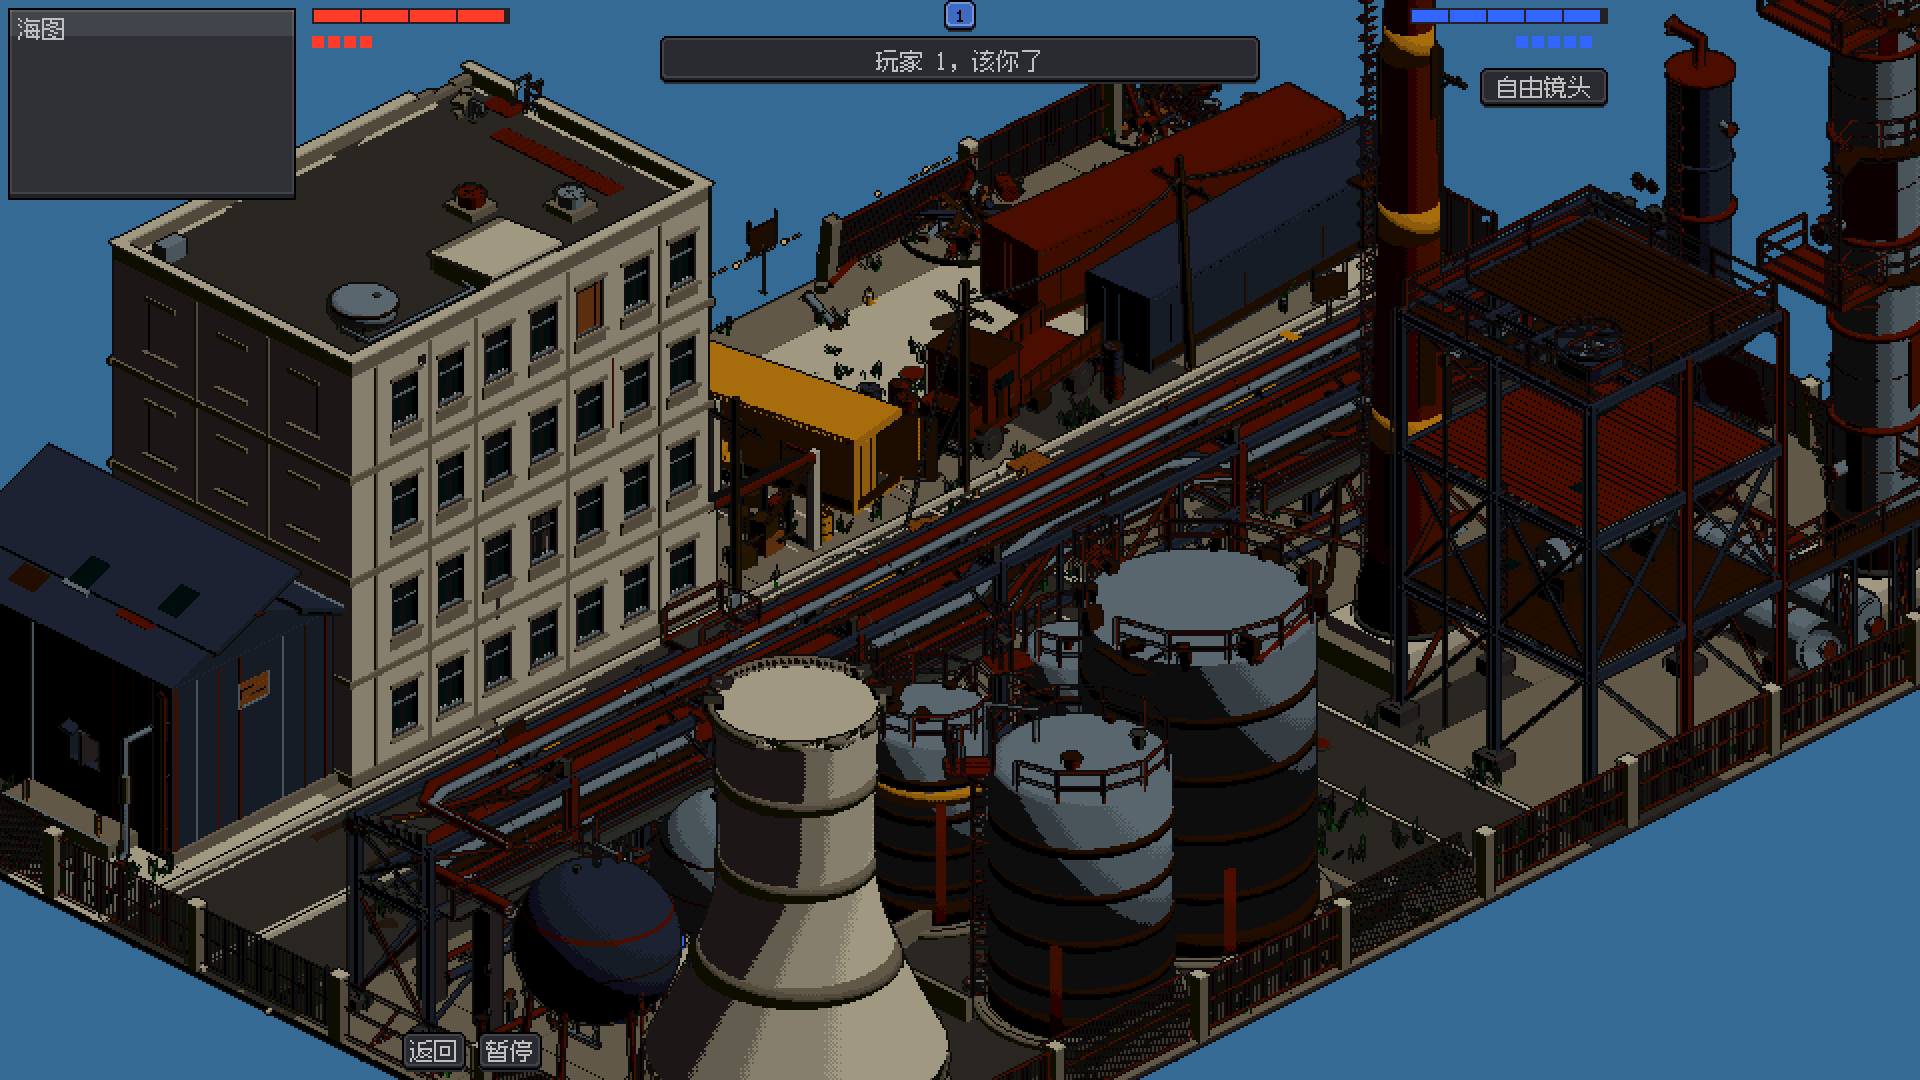
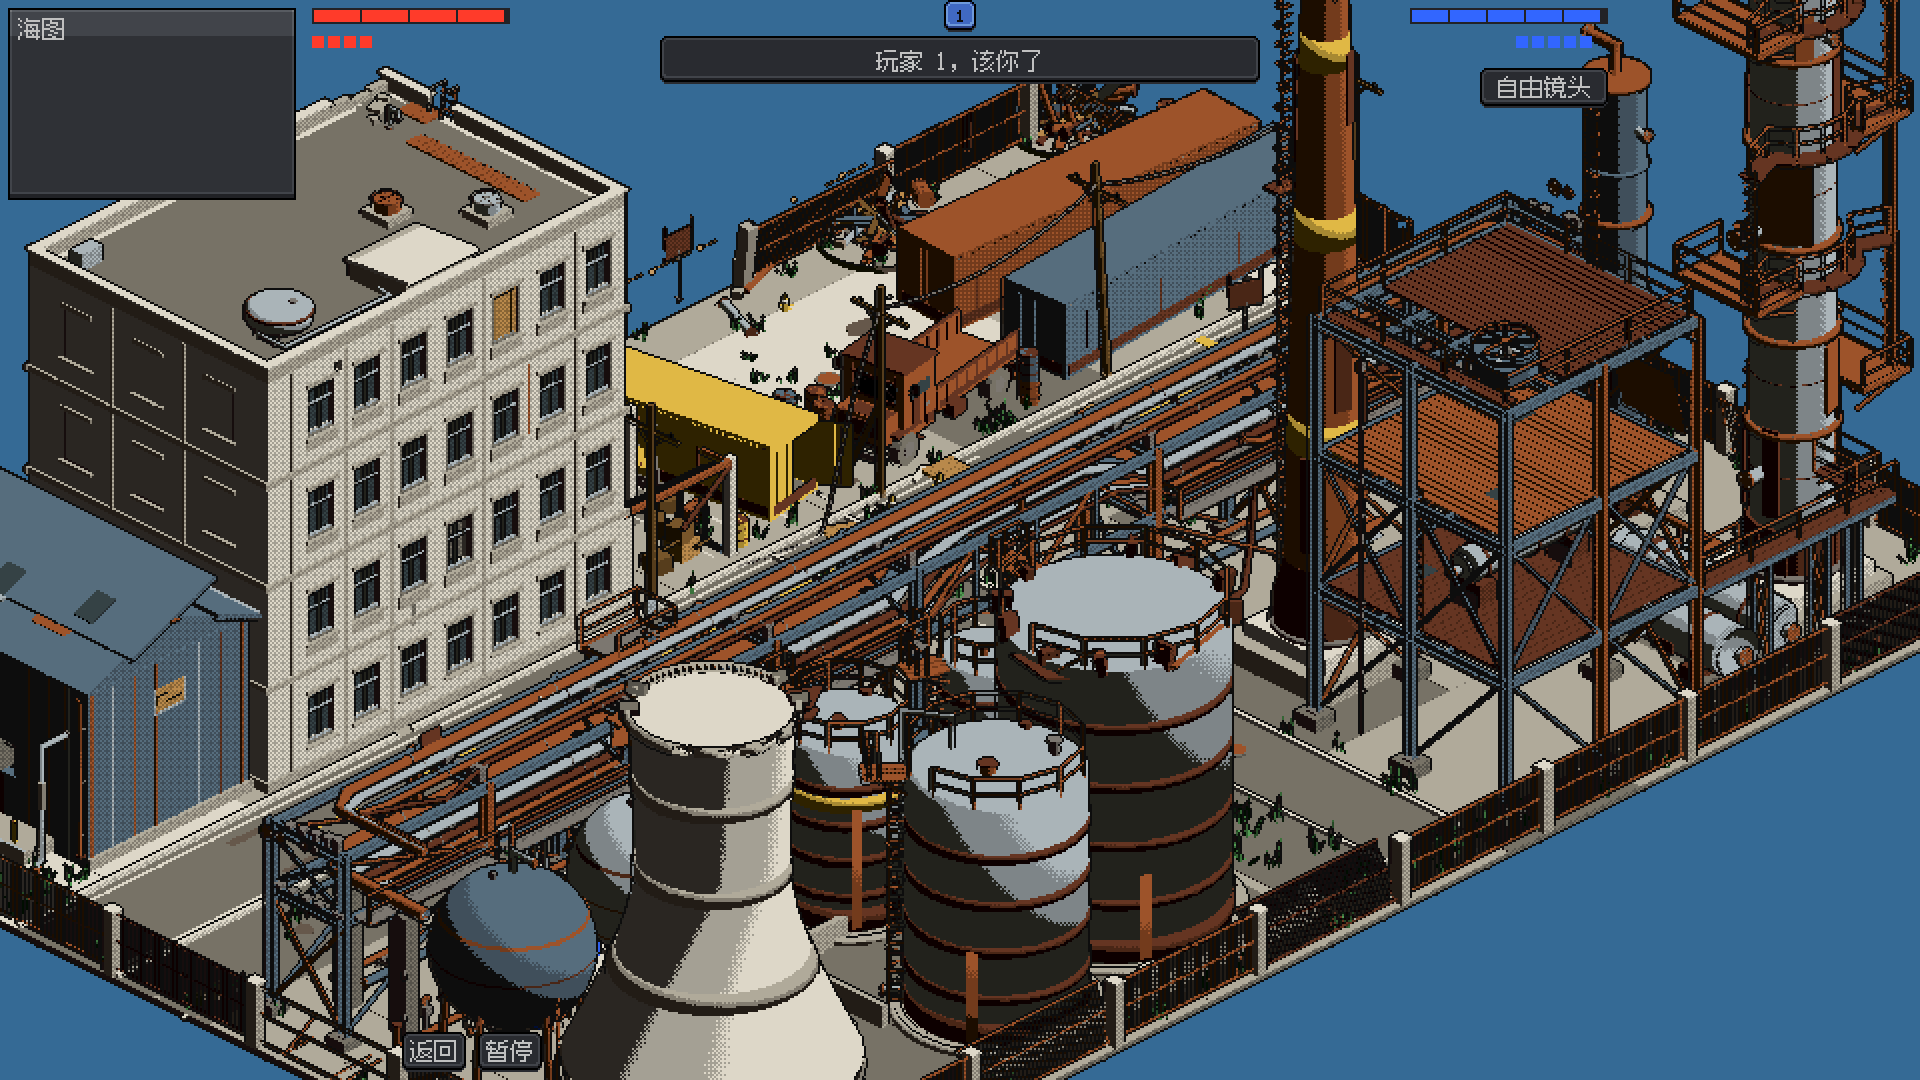
docs(readme): 化工厂两关实拍图更新（关4 着色复原 / 关5 亮度复原）+ 上下排布不再并表格（创始人 2026-10-08 订正）

diff --git a/README.md b/README.md
@@ -40,9 +40,13 @@
 
 Blender 无头管线手作建模的工业废墟两连关：精馏塔、管廊、储罐、冷却塔与四层旁楼，黄昏天光下打一场废墟攻防。两关各一张游戏内实拍：
 
-| 关卡 4 · 手作总装 | 关卡 5 · 六件并行版 |
-| --- | --- |
-| ![废弃化工厂·关4](docs/images/readme/level-chemplant.png) | ![废弃化工厂·关5](docs/images/readme/level-chemplant5.png) |
+*关卡 4 · 手作总装：*
+
+![废弃化工厂·关4](docs/images/readme/level-chemplant.png)
+
+*关卡 5 · 六件并行版：*
+
+![废弃化工厂·关5](docs/images/readme/level-chemplant5.png)
 
 ## 战斗：两态交互 + 米制投掷
 
